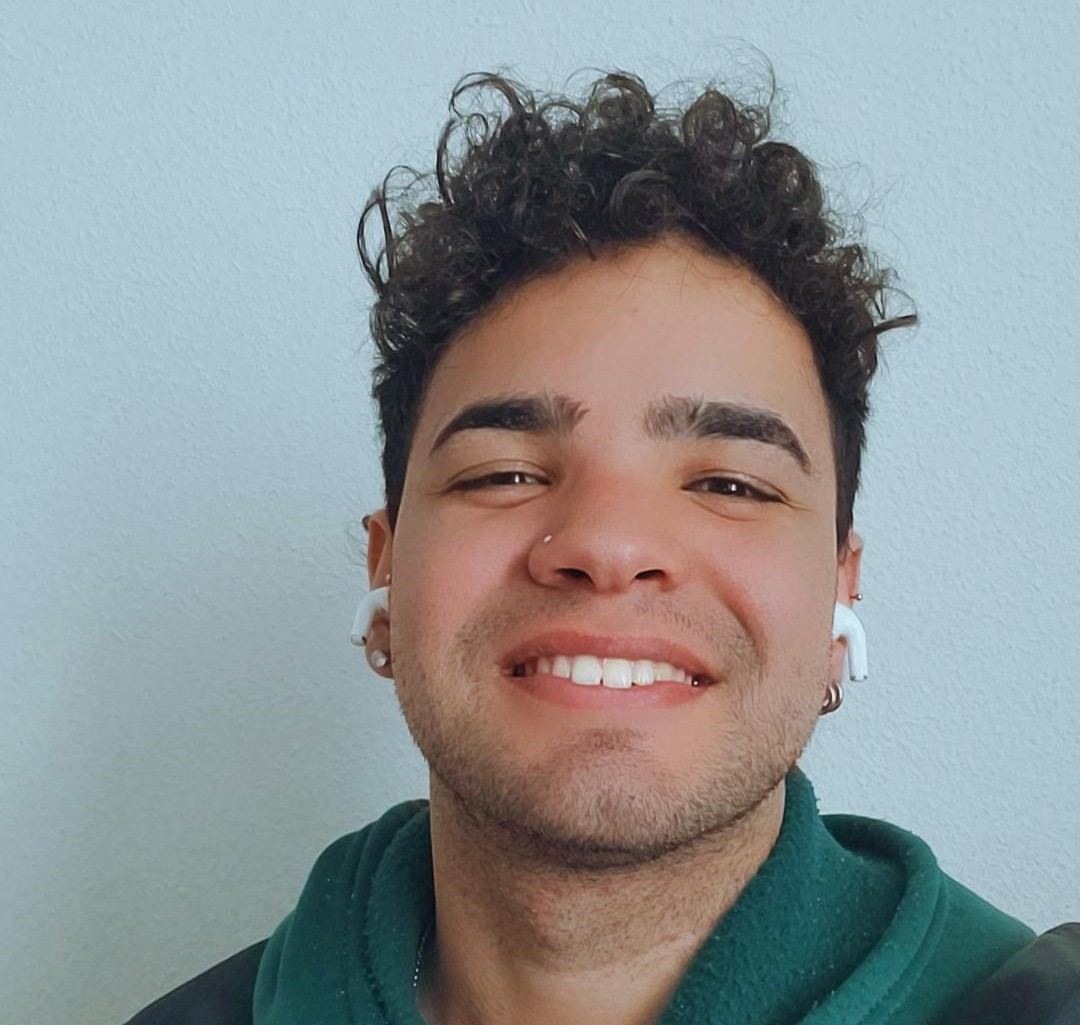
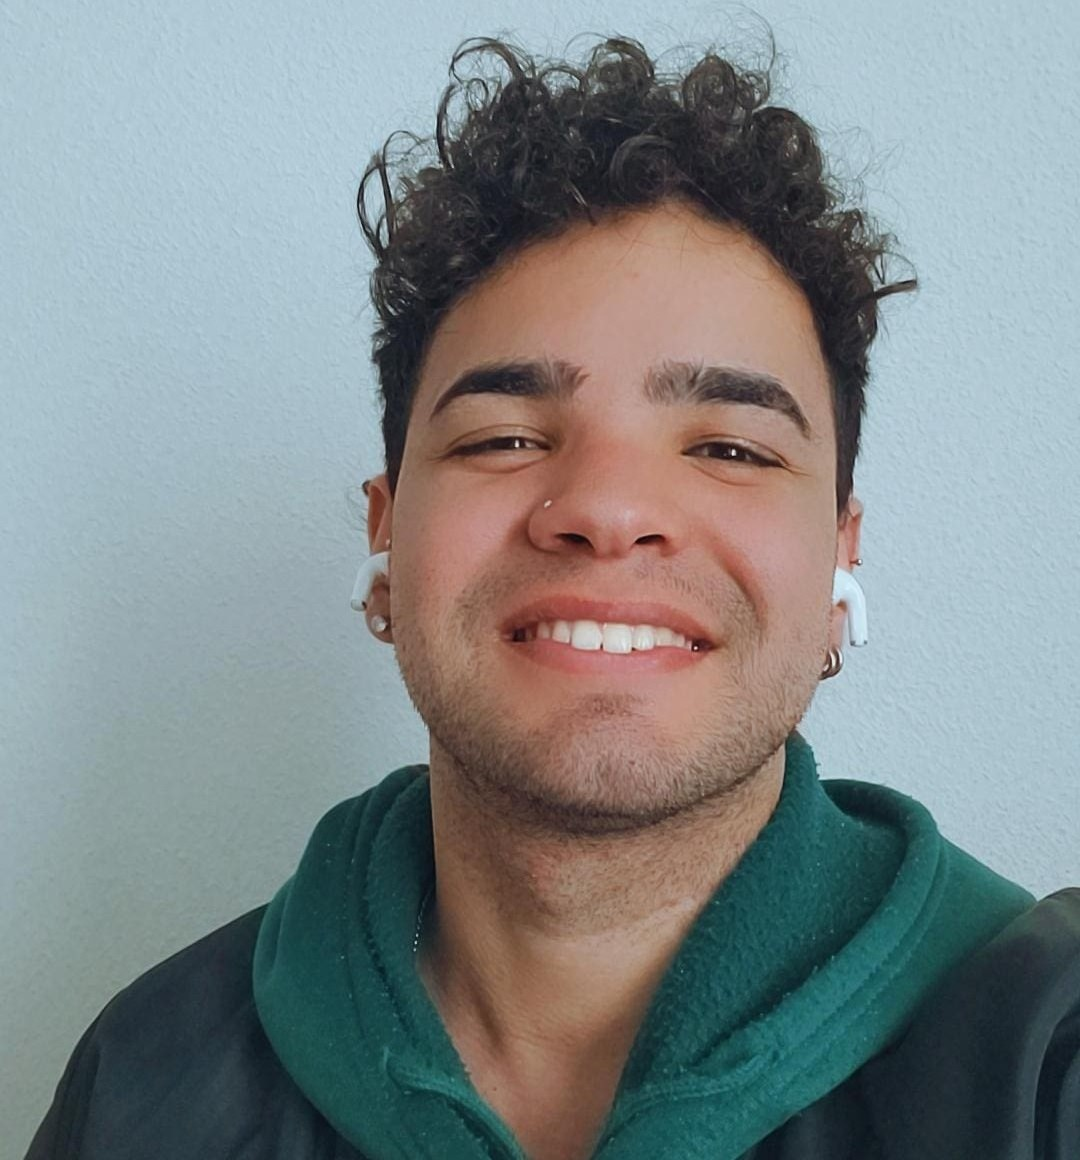
Subida de fotos de miembros

diff --git a/Landing_Page/src/pages/About.jsx b/Landing_Page/src/pages/About.jsx
@@ -5,14 +5,17 @@ import GradientText from '../components/GradientText'; // <-- Nuevo import
 import './About.css';
 import avatarThiago from '../assets/team-member-1.jpg';
 import avatarAndres from '../assets/team-member-2.jpg';
+import avatarHugo from '../assets/team-member-3.jpg';
+import avatarEric from '../assets/team-member-4.jpg';
+import avatarJulio from '../assets/team-member-5.jpg';
 
 // Ajustamos los datos para las nuevas props del ProfileCard
 const teamData = [
   { name: 'ThiagoSnchz', title: 'CEO & Founder', handle: 'thiagosnchz', image: avatarThiago },
-  { name: 'Hugo Lucendo', title: 'Head of AI Strategy ', handle: 'hugolucendo', image: avatarThiago },
-  { name: 'Andrés de Abreu', title: 'Tech Lead – Full Stack', handle: 'andresedal', image: avatarThiago },
-  { name: 'Eric Casero', title: 'Head of Growth Marketing', handle: 'ericcb6', image: avatarThiago },
-  { name: 'Julio Lopez', title: 'Growth Marketing Manager', handle: 'julyatm_9', image: avatarThiago },
+  { name: 'Hugo Lucendo', title: 'Head of AI Strategy ', handle: 'hugolucendo', image: avatarHugo },
+  { name: 'Andrés de Abreu', title: 'Tech Lead – Full Stack', handle: 'andresedal', image: avatarAndres },
+  { name: 'Eric Casero', title: 'Head of Growth Marketing', handle: 'ericcb6', image: avatarEric },
+  { name: 'Julio Lopez', title: 'Growth Marketing Manager', handle: 'julyatm_9', image: avatarJulio },
 ];
 
 const About = () => {
